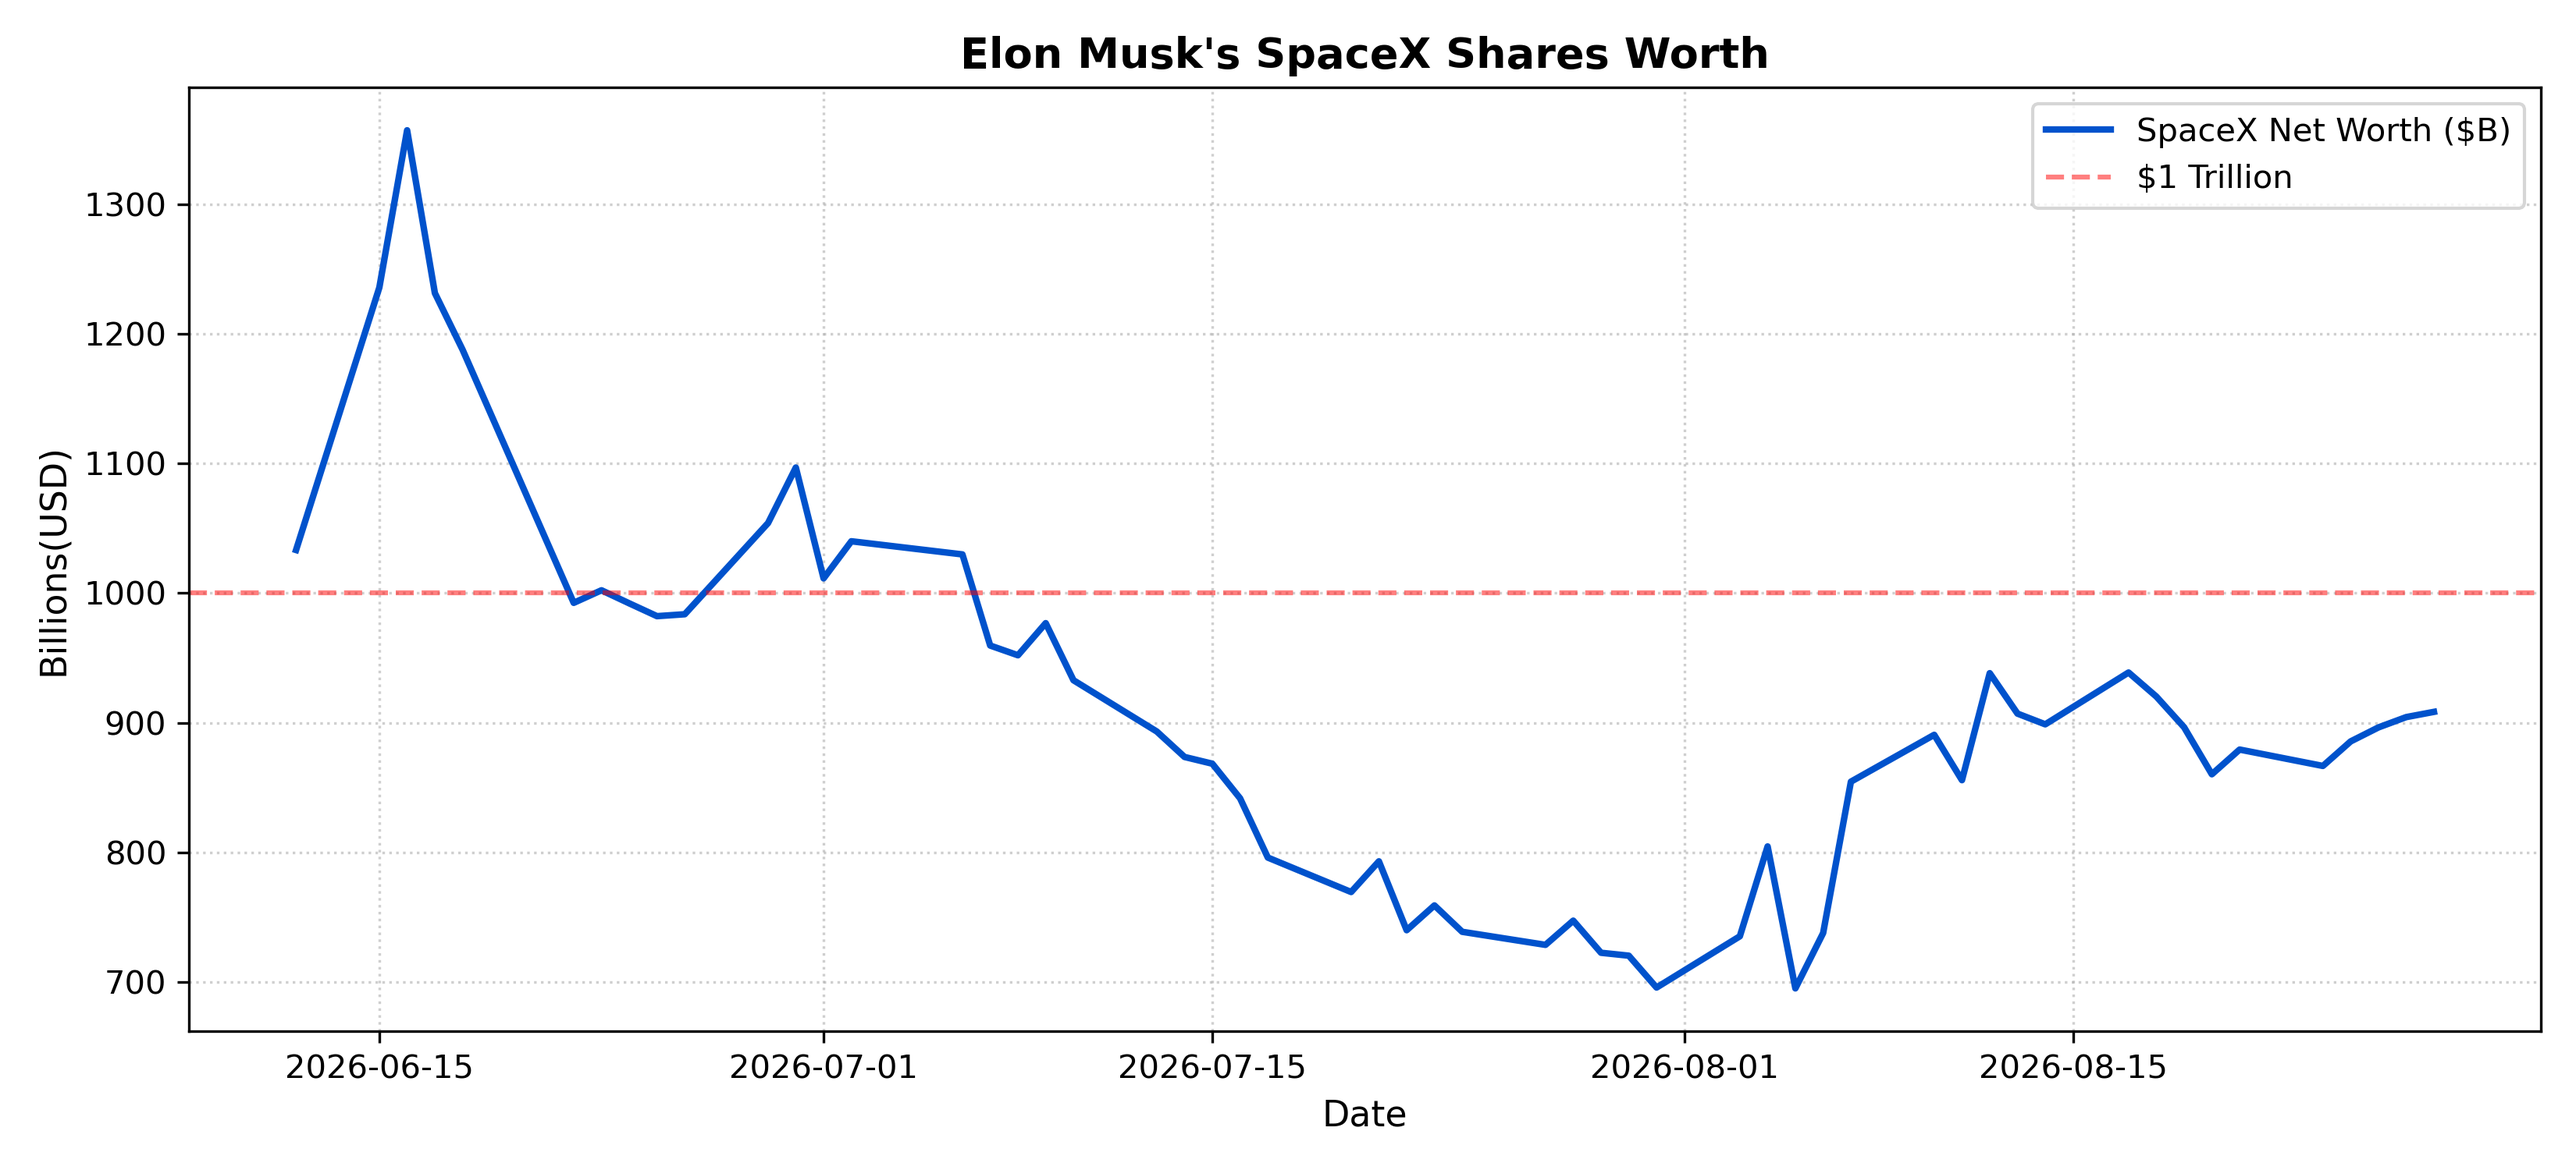
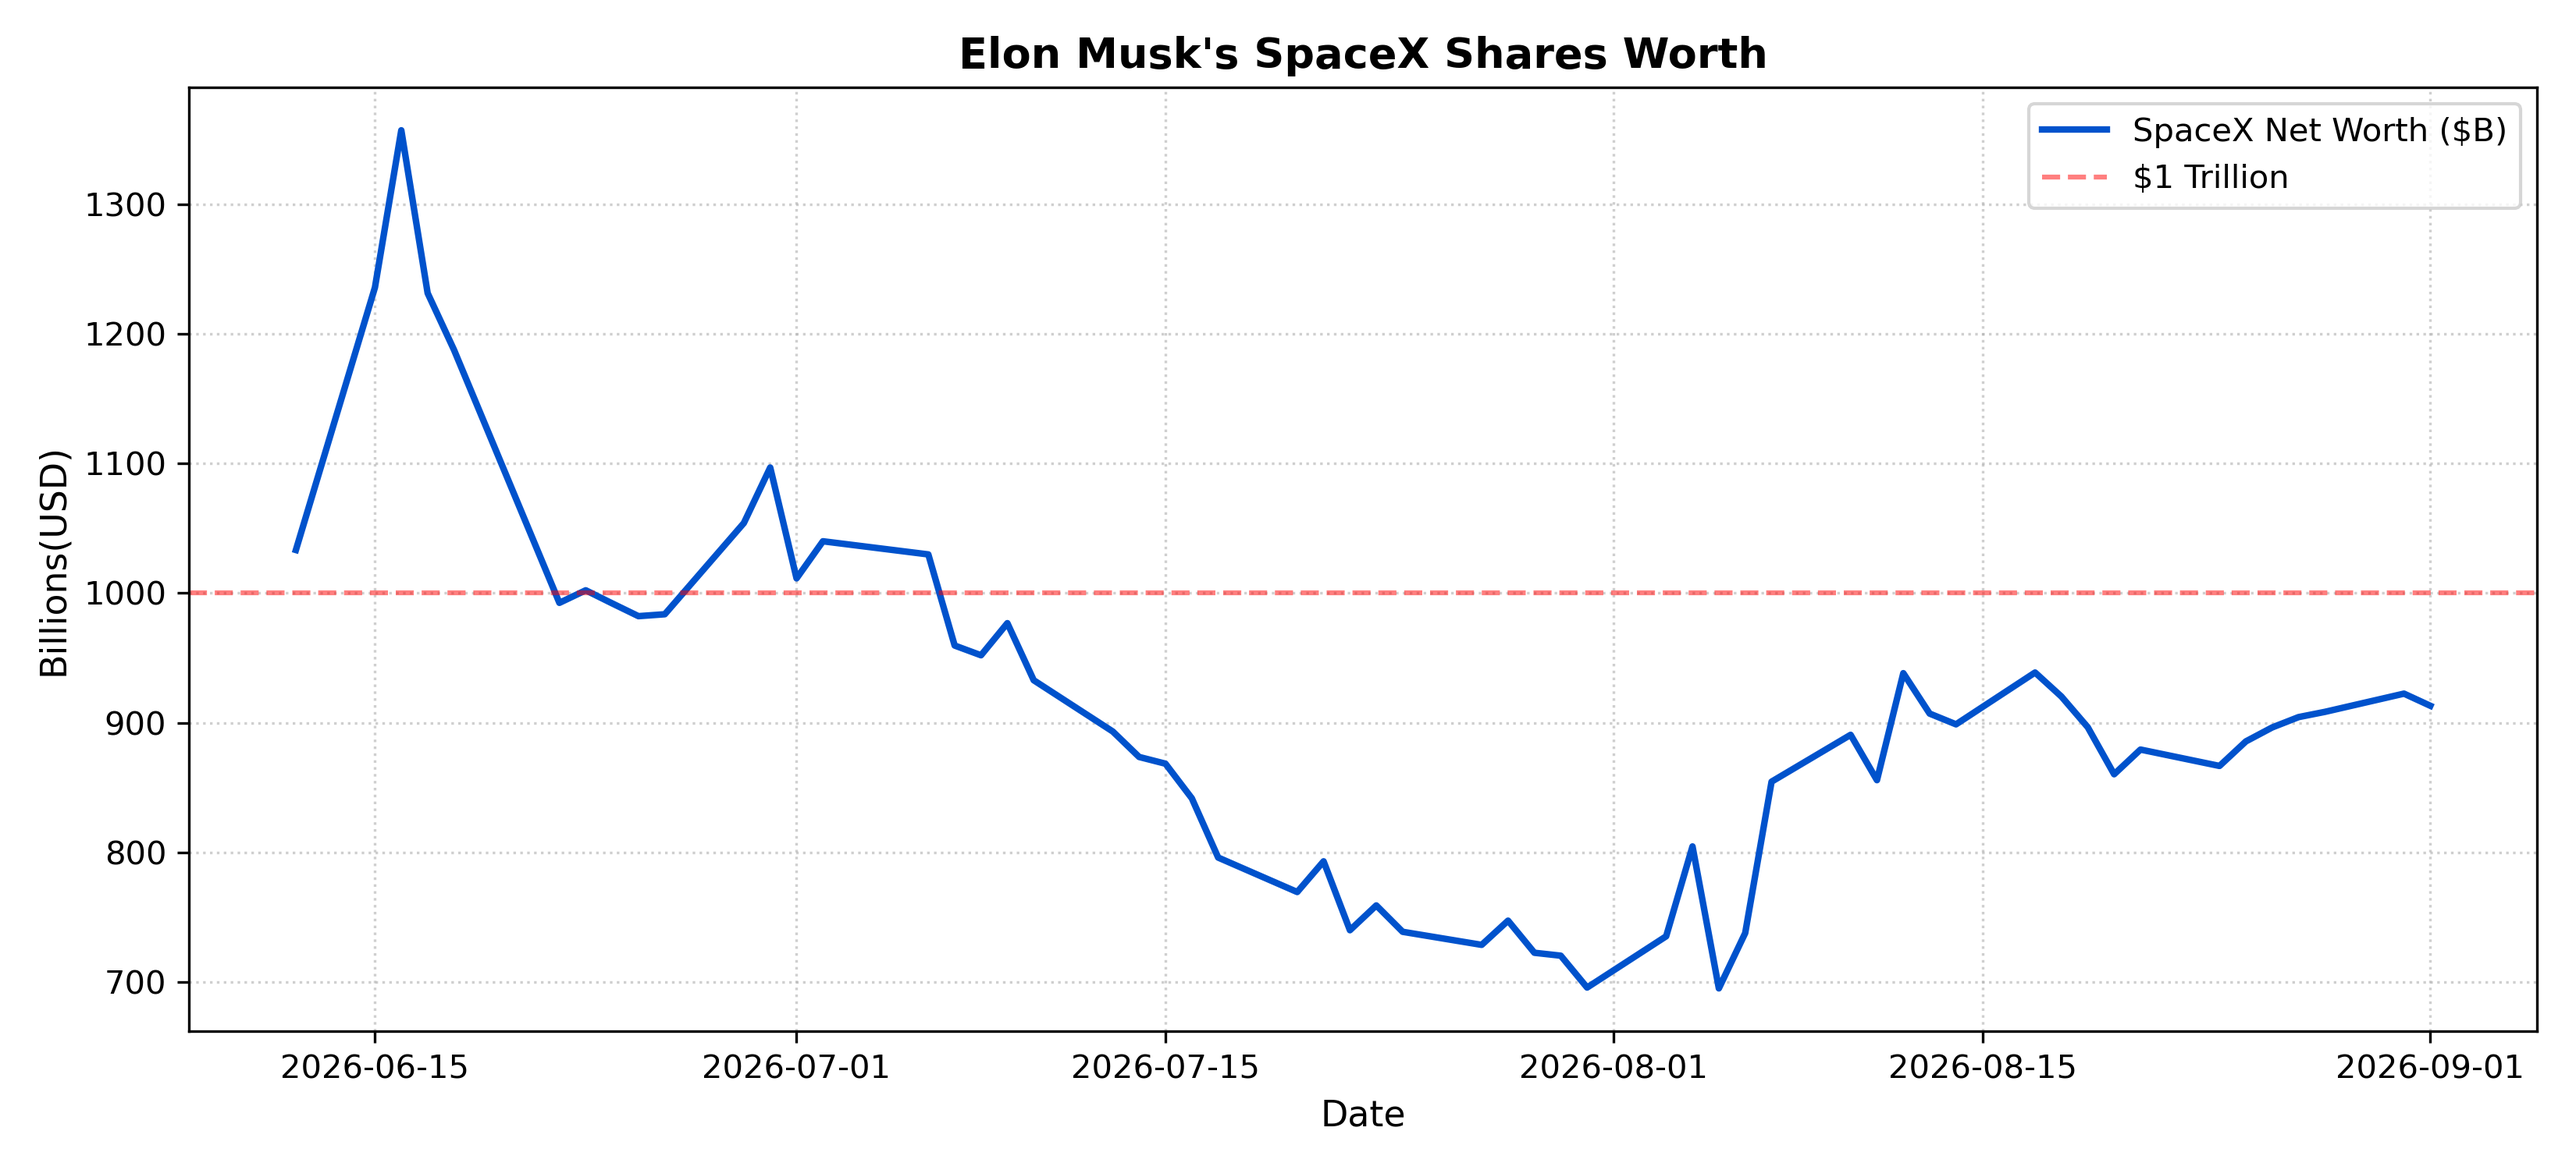
Initial commit

diff --git a/elongate.py b/elongate.py
@@ -5,7 +5,7 @@ import pandas as pd
 # 1. Define the tickers and the timeframe
 tickers = ["TSLA", "SPCX"]
 start_date = "2026-07-01"
-end_date = "2026-08-28"  # Requested inclusive end date
+end_date = "2026-09-01"  # Requested inclusive end date
 
 # yfinance treats the `end` parameter as exclusive. To include `end_date`
 # in the downloaded range, add one day to the end date.

diff --git a/spcx_tsla.py b/spcx_tsla.py
@@ -9,7 +9,7 @@ import yfinance as yf
 
 # Fetch data starting from June 22, 2026
 start_date = "2026-06-12"
-end_date = "2026-08-28"  # Requested inclusive end date 
+end_date = "2026-09-01"  # Requested inclusive end date 
 
 # yfinance treats the `end` parameter as exclusive. To include `end_date`,
 # add one day and use that as the `end` argument.
